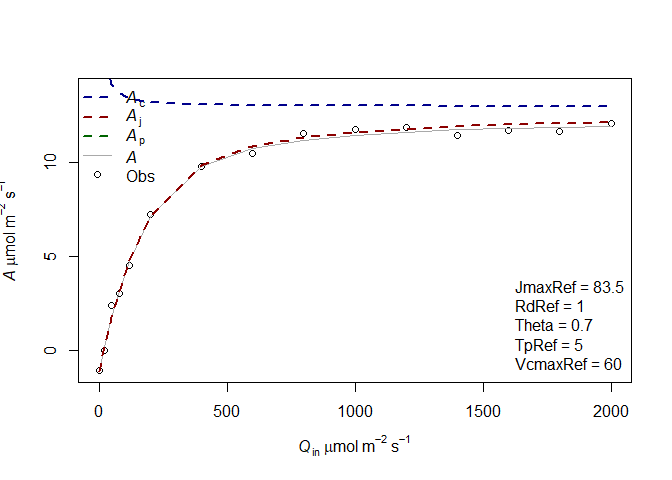
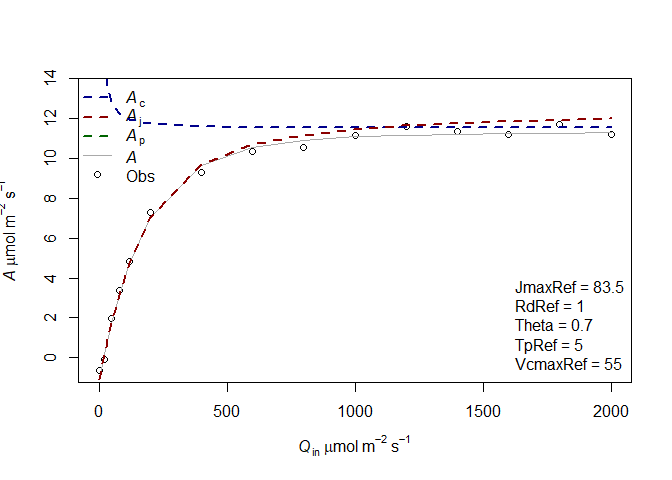
Update vignette

diff --git a/vignettes/Aq_fitting.md b/vignettes/Aq_fitting.md
@@ -22,17 +22,17 @@ the function f.make.param, you can use the command ?f.make.param in R
 console. Theta corresponds to the empirical curvature factor and abso
 corresponds to the leaf absorptance.
 
-    param=f.make.param(VcmaxRef = 65,JmaxRef=90,Theta=0.7,abso=0.9,TpRef=50/10,RdRef=1)
+    param=f.make.param(VcmaxRef = 70,JmaxRef=90,Theta=0.7,abso=0.9,TpRef=50/10,RdRef=1)
     CO2=400
     Tleaf=30+273.16
     Tair=27+273.16
     PAR=c(0,20,50,80,120,200,400,600,800,1000,1200,1400,1600,1800,2000)
-    RH=80
+    RH=70
     simul=f.A(PFD = PAR,cs = CO2,Tleaf = Tleaf,Tair = Tair,RH = RH,param = param)
 
     # Here we include a normal error 
 
-    simul$A=simul$A+rnorm(n=length(simul$A),mean = 0,sd = 0.2)
+    simul$A=simul$A+rnorm(n=length(simul$A),mean = 0,sd = 0.3)
     measures=data.frame(Tleaf=Tleaf,Ci=simul$ci,Qin=PAR,A=simul$A)
 
 We display this simulated curve using the function f.plot
@@ -49,7 +49,7 @@ light.
 
 For example:
 
-    param2=f.make.param(VcmaxRef = 60,JmaxRef=60*1.67,Theta=0.7,abso=0.9,TpRef=5,RdRef=1)
+    param2=f.make.param(VcmaxRef = 55,JmaxRef=90,Theta=0.7,abso=0.9,TpRef=5,RdRef=1)
     simul2=f.A(PFD = PAR,cs = CO2,Tleaf = Tleaf,Tair = Tair,RH = RH,param = param2)
 
     # Here we include a normal error 
@@ -76,19 +76,19 @@ used in the TBM FATES to simulate the photosynthesis are used. In this
 example, we also give a high value for VcmaxRef so it is not limiting
 the photosynthesis rates. We’ll revisit this assumption later.
 
-    fitting1=f.fitting(measures = measures,Start = list(JmaxRef = 30, RdRef = 1,Theta=0.5),param=f.make.param(abso=0.9,VcmaxRef=150),
+    fitting1=f.fitting(measures = measures,Start = list(JmaxRef = 60, RdRef = 1,Theta=0.5),param=f.make.param(abso=0.9,VcmaxRef=9999),
                        modify.init=TRUE,do.plot=TRUE,type='Aq')
 
     ## $par
-    ##      JmaxRef        RdRef        Theta 
-    ## 106.38098162   0.26275930  -0.08050399 
+    ##     JmaxRef       RdRef       Theta 
+    ## 113.7118145   0.2601098  -0.1994429 
     ## 
     ## $value
-    ## [1] 2.579546
+    ## [1] 3.907609
     ## 
     ## $counts
     ## function gradient 
-    ##      144       NA 
+    ##      120       NA 
     ## 
     ## $convergence
     ## [1] 0
@@ -96,7 +96,7 @@ the photosynthesis rates. We’ll revisit this assumption later.
     ## $message
     ## NULL
     ## 
-    ## [1] "sd 0.41469233295113"
+    ## [1] "sd 0.51039910701802"
     ## Length  Class   Mode 
     ##      1   mle2     S4
 
@@ -111,14 +111,14 @@ information in the curve to estimate it.
 
     ## $par
     ##    JmaxRef   VcmaxRef      RdRef      Theta 
-    ## 83.7971319 55.9832980  0.8412195  0.6915046 
+    ## 82.1136986 59.9695836  0.8751863  0.7147391 
     ## 
     ## $value
-    ## [1] 0.4548774
+    ## [1] 1.25964
     ## 
     ## $counts
     ## function gradient 
-    ##      257       NA 
+    ##      487       NA 
     ## 
     ## $convergence
     ## [1] 0
@@ -126,7 +126,7 @@ information in the curve to estimate it.
     ## $message
     ## NULL
     ## 
-    ## [1] "sd 0.174141205269797"
+    ## [1] "sd 0.289786092827467"
     ## Length  Class   Mode 
     ##      1   mle2     S4
 
@@ -144,11 +144,11 @@ info).
 
     confint(fitting1[[2]])
 
-    ##                2.5 %    97.5 %
-    ## sigma    0.301440541 0.6225360
-    ## JmaxRef 83.840895796        NA
-    ## RdRef    0.001052065 0.5238225
-    ## Theta   -1.966141189 0.4821012
+    ##               2.5 %    97.5 %
+    ## sigma    0.37100998 0.7662110
+    ## JmaxRef 81.14004913        NA
+    ## RdRef   -0.06665939 0.5715776
+    ## Theta   -2.98343197 0.5706621
 
 It is possible to compare the AIC of the two models using the base
 function AIC or BIC. The lower AIC or BIC corresponds to the best model.
@@ -156,11 +156,11 @@ It shows in this case that adding VcmaxRef is not usefull.
 
     BIC(fitting1[[2]])
 
-    ## [1] 21.70678
+    ## [1] 27.93646
 
     BIC(fitting2[[2]])
 
-    ## [1] -2.937039
+    ## [1] 12.34126
 
 We can redo this procedure for the second simulated curve:
 
@@ -168,15 +168,15 @@ We can redo this procedure for the second simulated curve:
                        modify.init=TRUE,do.plot=TRUE,type='Aq')
 
     ## $par
-    ##      JmaxRef        RdRef        Theta 
-    ## 101.24854445   0.24811805   0.06293845 
+    ##    JmaxRef      RdRef      Theta 
+    ## 86.9748423  0.3207121  0.3814943 
     ## 
     ## $value
-    ## [1] 3.255527
+    ## [1] 2.445858
     ## 
     ## $counts
     ## function gradient 
-    ##      198       NA 
+    ##      162       NA 
     ## 
     ## $convergence
     ## [1] 0
@@ -184,7 +184,7 @@ We can redo this procedure for the second simulated curve:
     ## $message
     ## NULL
     ## 
-    ## [1] "sd 0.465870311632661"
+    ## [1] "sd 0.403803456646784"
     ## Length  Class   Mode 
     ##      1   mle2     S4
 
@@ -194,23 +194,23 @@ We can redo this procedure for the second simulated curve:
                        modify.init=TRUE,do.plot=TRUE,type='Aq')
 
     ## $par
-    ##    JmaxRef      RdRef      Theta   VcmaxRef 
-    ## 84.1853118  0.8157030  0.6943111 55.4998630 
+    ##     JmaxRef       RdRef       Theta    VcmaxRef 
+    ##  77.9466375   0.7369673   0.7458313 777.4815995 
     ## 
     ## $value
-    ## [1] 1.038431
+    ## [1] 0.8643026
     ## 
     ## $counts
     ## function gradient 
-    ##      429       NA 
+    ##      501       NA 
     ## 
     ## $convergence
-    ## [1] 0
+    ## [1] 1
     ## 
     ## $message
     ## NULL
     ## 
-    ## [1] "sd 0.263113503612196"
+    ## [1] "sd 0.240042023484236"
     ## Length  Class   Mode 
     ##      1   mle2     S4
 
@@ -221,11 +221,11 @@ parameter to estimate:
 
     BIC(fitting3[[2]])
 
-    ## [1] 25.19789
+    ## [1] 20.90852
 
     BIC(fitting4[[2]])
 
-    ## [1] 9.444535
+    ## [1] 6.691371
 
 In this case, the model with VcmaxRef is better.
 
